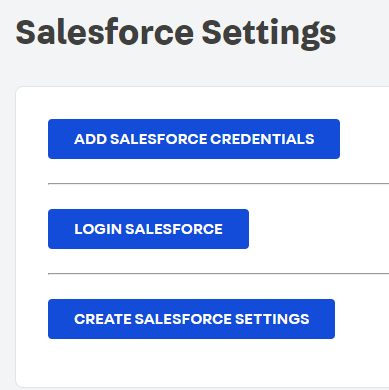
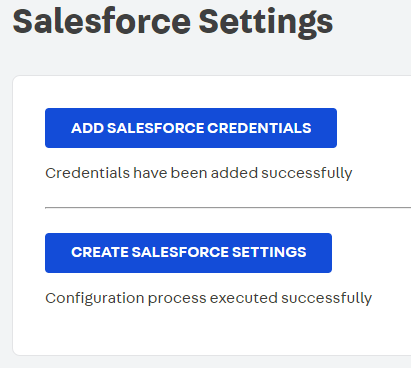
chore (README): corrections documentation

diff --git a/docs/README.md b/docs/README.md
@@ -34,19 +34,29 @@ The purpose of this document is to detail the implementation of the middleware r
       "path": "/v1/vtex/add-credentials",
       "public": true
     },
-    "AuthenticationHook": {
-      "path": "/v1/vtex/authenticate",
-      "public": true
-    },
     "ConfigurationHook": {
       "path": "/v1/vtex/configuration",
+      "public": true
+    },
+    "GetParametersHook": {
+      "path": "/v1/vtex/get-parameters",
+      "public": true
+    },
+    "GetConfigurationHook": {
+      "path": "/v1/vtex/get-configuration",
       "public": true
     }
   },
   "events": {
     "orderState": {
       "sender": "vtex.orders-broadcast",
-      "topics": ["payment-approved", "canceled", "ready-for-handling", "handling", "invoiced"]
+      "topics": [
+        "payment-approved",
+        "canceled",
+        "ready-for-handling",
+        "handling",
+        "invoiced"
+      ]
     }
   }
 }
@@ -62,25 +72,26 @@ You can also provide a `public` option for each route. If `true`, that resource 
 #### HTTP methods
 When you define a route on the `service.json`, your NodeJS handlers for that route will be triggered  **on every HTTP method** (GET, POST, PUT...), so, if you need to handle them separately you need to implement a "sub-router". Fortunately, the _node-vtex-api_ provides a helper function `method`, exported from `@vtex/api`, to accomplish that behaviour. Instead of passing your handlers directly to the corresponding route on `index.ts`, you pass a `method` call passing **an object with the desired method as key and one handler as its corresponding value**. Check this example:
 ```typescript
-import {
+import type {
   ClientsConfig,
   ServiceContext,
   RecorderState,
   EventContext,
   IOContext,
-  method,
 } from '@vtex/api'
-import { LRUCache, Service } from '@vtex/api'
+import { method, LRUCache, Service } from '@vtex/api'
 import * as dotenv from 'dotenv'
-dotenv.config()
 
 import { Clients } from './clients'
 import { orderState } from './middlewares/orderState'
 import { updateClientHook } from './middlewares/UpdateClientHook'
 import { abandonedCartHook } from './middlewares/AbandonedCartHook'
-import { authenticationHook } from './middlewares/authenticationHook'
 import { configurationHook } from './middlewares/configurationHook'
 import { addCredentialsHook } from './middlewares/addCredentialsHook'
+import { getParametersHook } from './middlewares/getParametersHook'
+import { getConfigurationHook } from './middlewares/getConfigurationHook'
+
+dotenv.config()
 
 const TIMEOUT_MS = 800
 
@@ -136,11 +147,14 @@ export default new Service({
     AddCredentialsHook: method({
       POST: [addCredentialsHook],
     }),
-    AuthenticationHook: method({
-      GET: [authenticationHook],
-    }),
     ConfigurationHook: method({
       POST: [configurationHook],
+    }),
+    GetParametersHook: method({
+      GET: [getParametersHook],
+    }),
+    GetConfigurationHook: method({
+      GET: [getConfigurationHook],
     }),
   },
 })
@@ -175,6 +189,4 @@ To configure the Salesforce connector you must do the following:
 
 1. Salesforce credentials must be added
 
-2. You must log in to Salesforce
-
-3. Salesforce configurations must be created
+2. Salesforce configurations must be created
